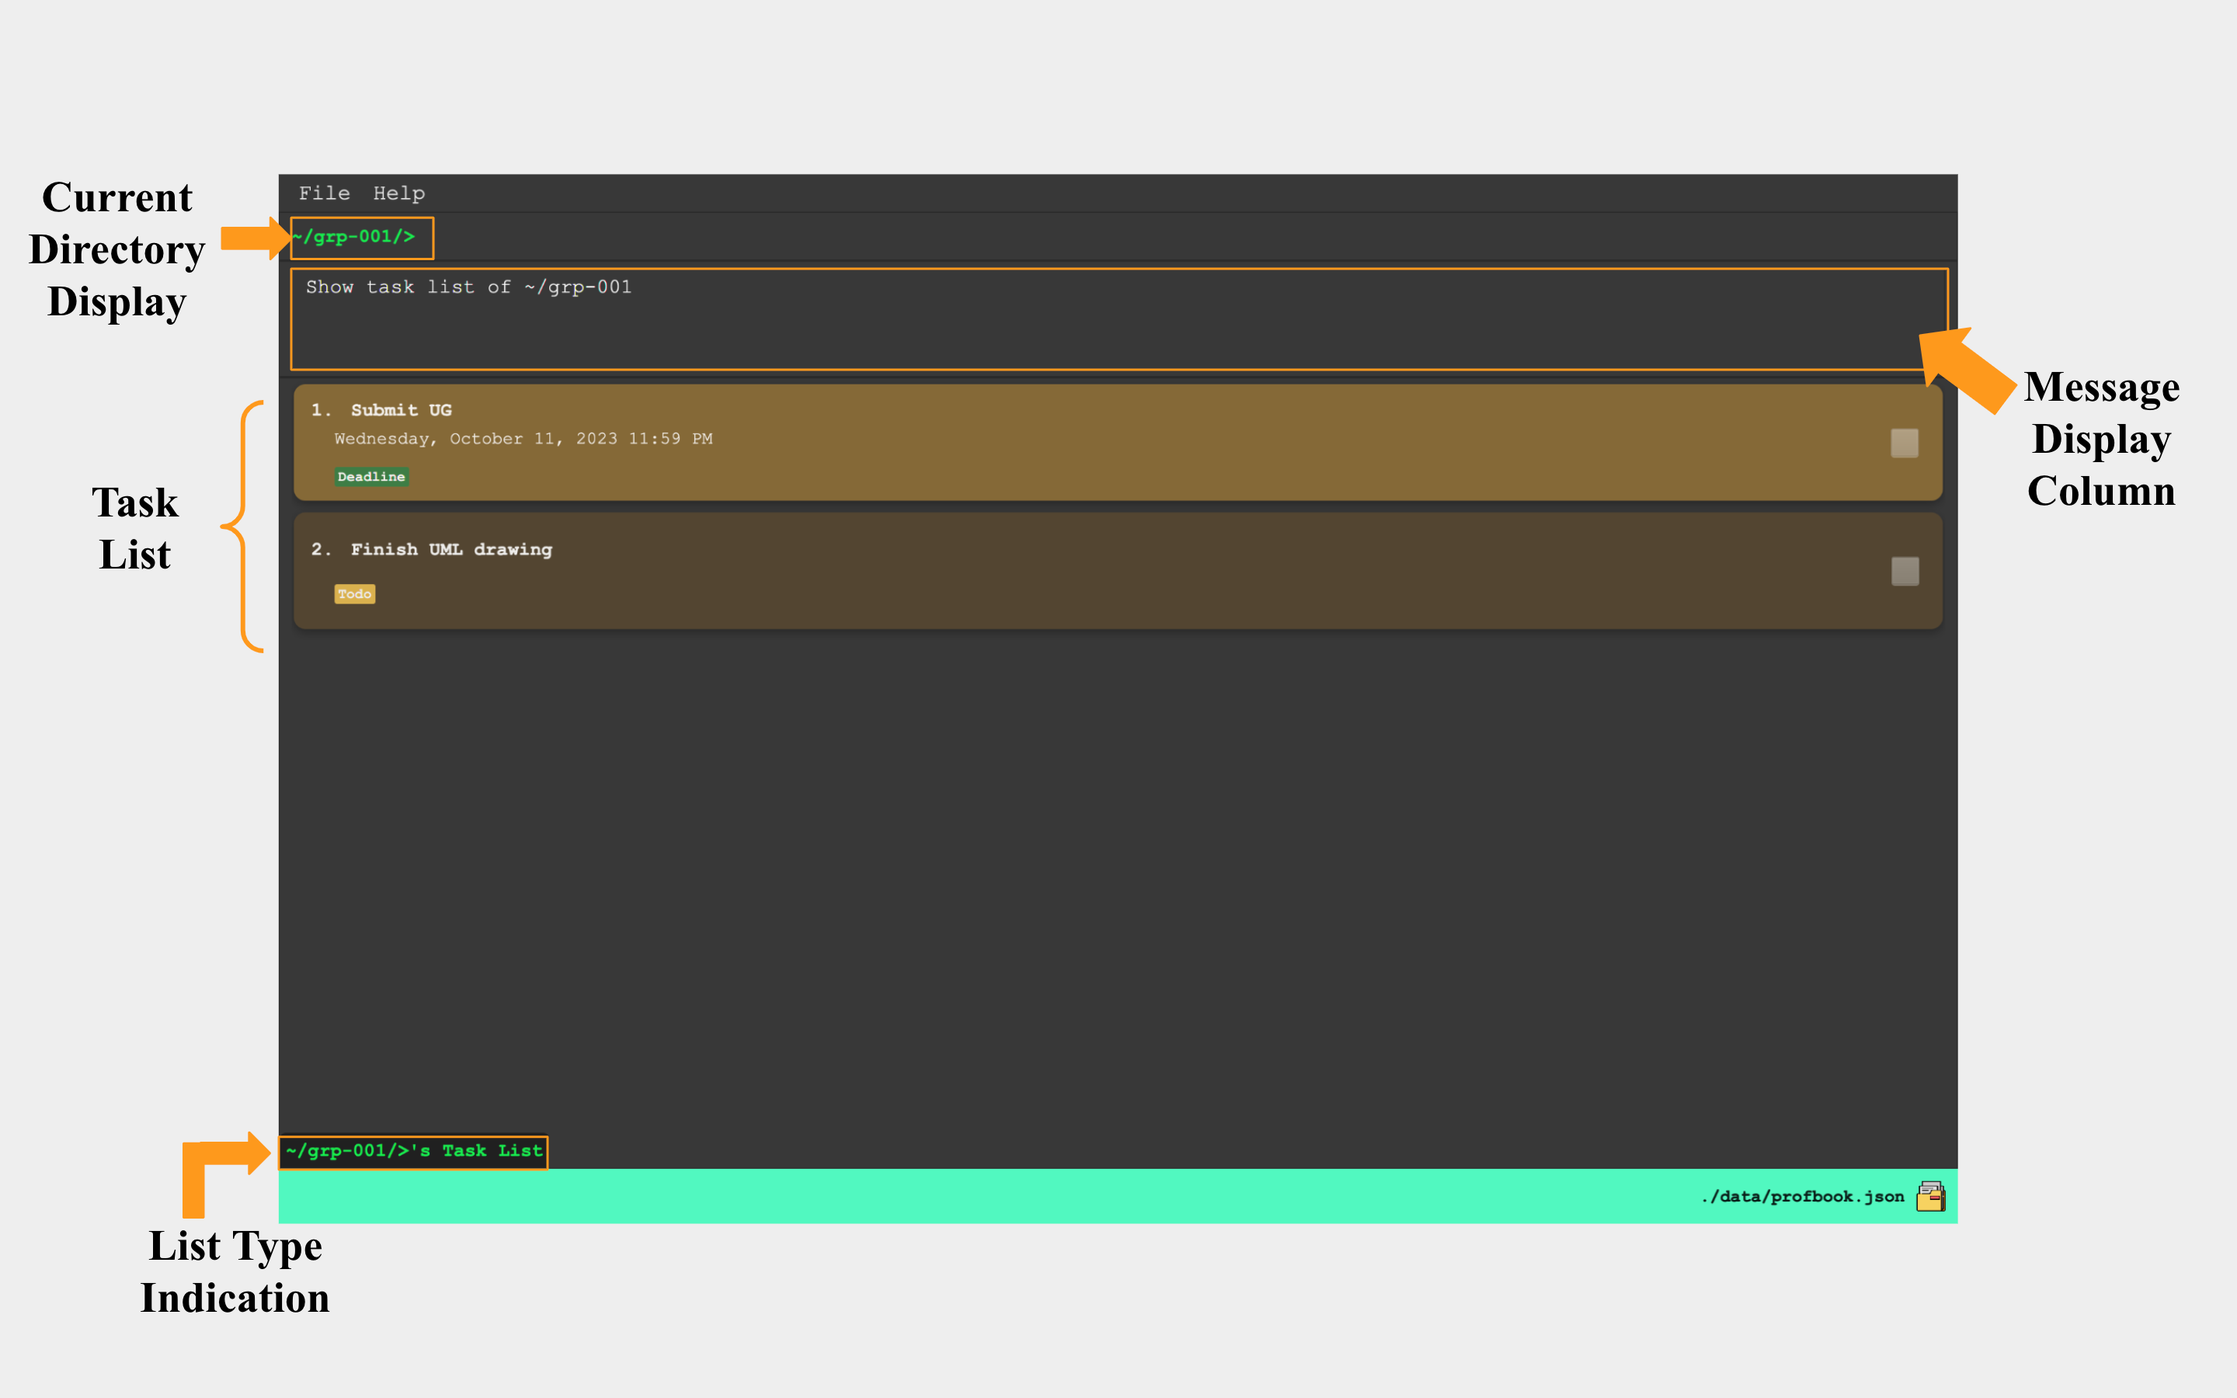
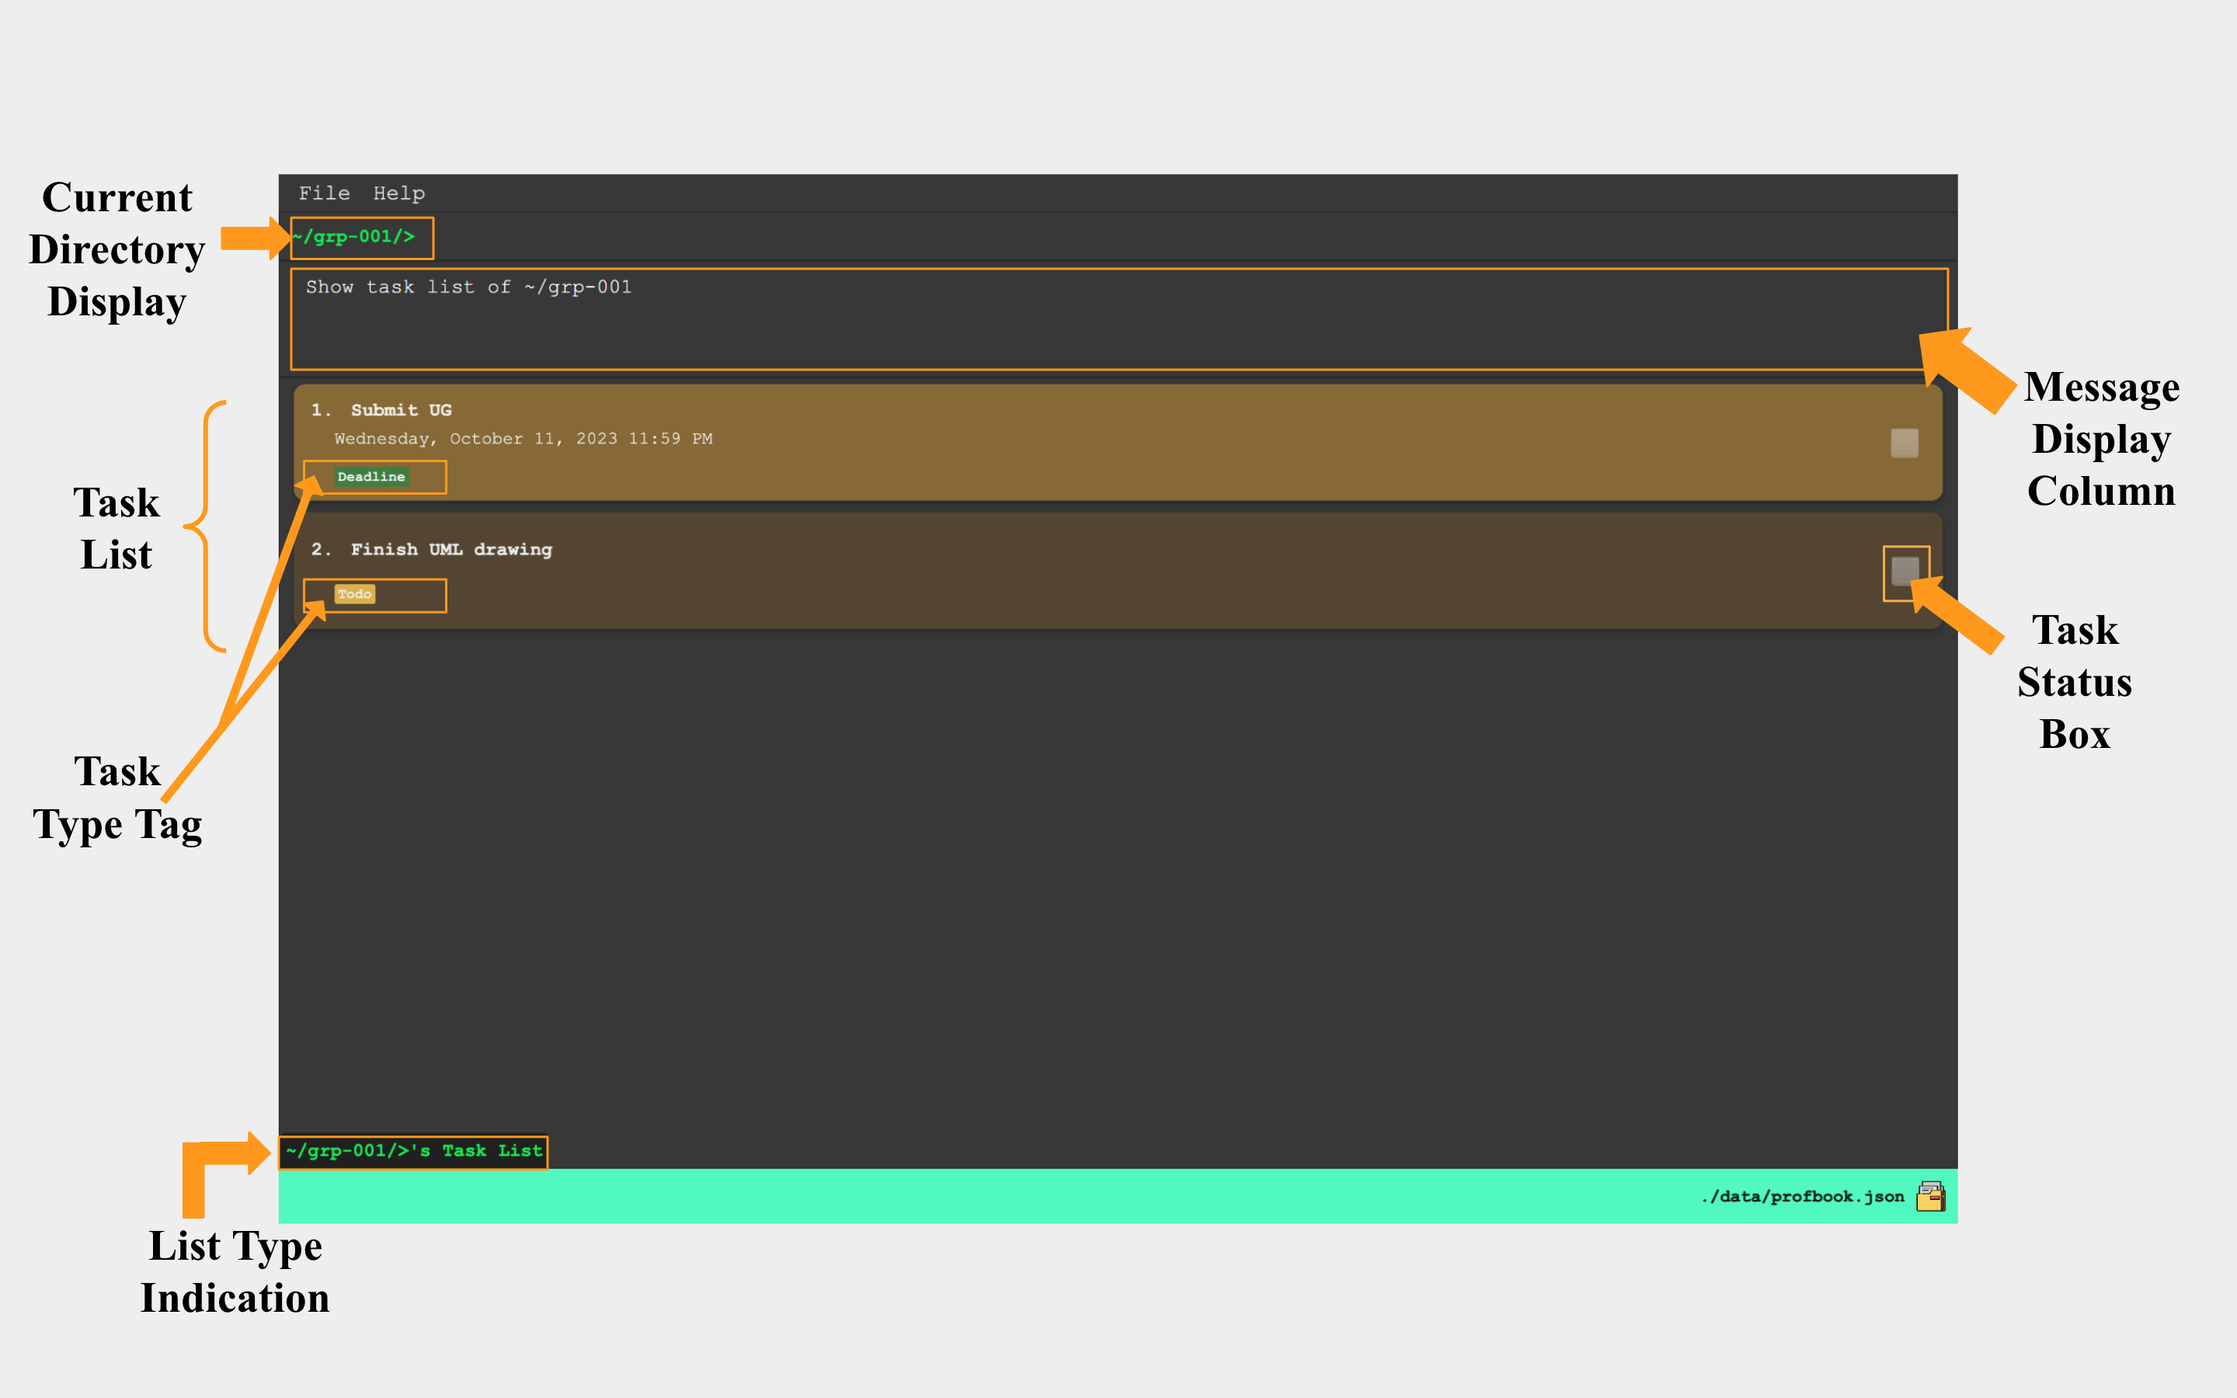
Update UG

diff --git a/docs/UserGuide.md b/docs/UserGuide.md
@@ -147,7 +147,13 @@ within each group.
 * Extraneous parameters for commands that do not take in parameters (such as `help`, `exit` and `clear`) will be  
   ignored. 
   * e.g. If the command specifies `help 123`, it will be interpreted as `help`.
-- Duplicate can only be detected if all field is exactly the same.
+- Regarding detection of duplicates,
+  - **For `Student` and `Group`**, duplicates can only be detected if they share the same StudentId or GroupId respectively
+  across ProfBook. 
+  - **For Todo tasks**, duplicates can only be detected if the todo tasks share the same
+      description (`DESCRIPTION`).
+  - **For Deadline tasks**, duplicates can only be detected if the deadline tasks share the same 
+  description (`DESCRIPTION`) and due date (`DATE_AND_TIME`).
 * If you would like to pass in a field that starts with `\`, `-` or `--`, you would need to use `\` before the start of
 that field. 
   * Else, fields that start with `-` or `--` will be treated as [flags](#flags) and fields that start with `\`
@@ -168,8 +174,10 @@ Flags usually come before essential details required by the command and are comp
 - `--desc` / `d` followed by description of task specified by command.
 - `--datetime` / `-dt` followed by due date of a deadline task in the `yyyy-MM-dd HH:mm` format.  
 - `--all` / `-al` followed by either: 
-  - `allStu` which adds **individual** tasks to all students within the group directory.
-    - Can only be used at a group directory.  
+  - `allStu` which adds **individual** tasks to all students within specified directory.
+    - Can only be used at a group or root directory.  
+      - If used at **group directory**, task will be added to **all students in that group**.
+      - If used at **root directory**, task will be added to **all students in ProfBook**.
   - `allGrp` which adds **group** tasks to all groups within the root directory.
     - Can only be used at root directory.
 - `--help` / `-h`
@@ -179,7 +187,7 @@ Flags usually come before essential details required by the command and are comp
 ### Acceptable values for each parameter:
 
 `SPECIFIED_PATH`:
-- Must be a valid path.
+- Must be a **valid** path. 
 
 `NAME`:
 - Must be a non-empty string should only contain alphanumeric characters and spaces.
@@ -203,7 +211,7 @@ Flags usually come before essential details required by the command and are comp
 - Must be at least 3 digits long. 
 
 `ADDRESS`:
-- Must be a non-empty string.
+- Must be a non-empty string, which means you cannot input a blank field.
 
 `STUDENT_ID`:
 - Must follow the format of a valid StudentId.
@@ -211,7 +219,7 @@ Flags usually come before essential details required by the command and are comp
 <box type="info">
 
 **Required format for `StudentId`:**
-- Must be in the format `XXXXA` where `XXXX` is replaceable with any 4-digit number and `A` is replaceable with any
+- Must be in the format `XXXXa` where `XXXX` is replaceable with any 4-digit number and `a` is replaceable with any
   capitalised alphabet.
   - **Note:** StudentId here corresponds to the last 5 place of an NUS student's matriculation number and is not
     a StudentId created by you. This format helps you to identify students easily while maintaining
@@ -230,6 +238,18 @@ Flags usually come before essential details required by the command and are comp
   * eg. `grp-001`
 
     </box>
+  
+`DESCRIPTION`:
+- Must be a non-empty string, which means you cannot input a blank field. 
+
+`DATE_AND_TIME`:
+- Must be in the format **`yyyy-MM-dd HH:mm`** where each alphebet will be replaced by a positive whole number. 
+  - `yyyy`: year.
+  - `MM`: month.
+  - `dd`: day.
+  - `HH`: hour (24-hour format).
+  - `mm`: minutes.
+- e.g. 2023-10-01 23:59
 
 `TASK_INDEX`:
 - Must be a **positive whole number**, which means it cannot contain decimals or fractions.
@@ -328,6 +348,8 @@ To view the task list of the current group directory, simply use `cat`.
 |**Current Directory Display**  |   Displays your current directory. <br> In this case, you are in the group directory, `~/grp-001/`.|
 | **Message Display Column** |   Displays the output of the command result. <br>Note that it shows that you are viewing th task list of group directory, `~/grp-001/`.|
 | **Task List** |  Shows the tasks allocated to group at current group directory.   |
+| **Task Type Tag** |  Shows the task type of the specific task, distinguishing between **Todo** tasks (highlighted in **yellow**) and **Deadline** tasks (highlighted in **green**).|
+| **Task Status Box** |  Indicates the completion status of the specific task, using a **tick** for **marked** / **completed** task and the **absence of a tick** for **unmarked** / **uncompleted** tasks.   |
 | **List Type Indication** | Indicates the type of list you are viewing, either a Children List or Task List. <br> In this instance, it shows the Task List of the group directory. |
 
 <box type = "info">
@@ -344,7 +366,7 @@ To view the task list of the current group directory, simply use `cat`.
 
 ## General Commands
 
-### Change Directory: `cd`
+### <span style="color: #FF8C00;">Change Directory: `cd` </span>
 
 Changes the current directory in the ProfBook.
 
@@ -376,7 +398,7 @@ Changes the current directory in the ProfBook.
 use the command:
   -  `cd ../grp-002` ->  type `..` to step up one level before proceeding to the `grp-002` directory.
 
-### Display Directories : `ls`
+### <span style="color: #FF8C00;">Display Directories : `ls`</span>
 
 Shows the list of children in specified directory. 
 
@@ -423,8 +445,8 @@ Displays message indicating either:
 - When you are at the root directory `~/` and would like to see the students under `grp-001`,
   - `ls grp-001` will return all the students in `grp-001`.
 </box>
-  
-### Display all tasks: `cat`
+
+### <span style="color: #FF8C00;">Display all tasks: `cat` </span>
 
 Displays all tasks depending on the directory you are at.
 
@@ -468,18 +490,19 @@ The `ls` command will show the list of tasks in the current group directory.
 
 <box type="tip">
 
-If you are at the directory `~/grp-001` and would like take a quick look of the tasks allocated to student `0010Y`,
+If you are at the directory `~/grp-001` and would like take a quick look of the tasks allocated to student `0010Y` 
+that is under `grp-001`,
 - `cat 0010Y` will return all the tasks allocated to student of studentId, `0010Y`.
 
 </box>
 
-### View help : `help`
+### <span style="color: #FF8C00;">View help : `help` </span>
 
 Shows a message of the commands you could use.
 
 **Format:** `help`
 
-### Clearing all entries : `clear`
+### <span style="color: #FF8C00;">Clearing all entries : `clear` </span>
 
 Clears all entries from ProfBook.
 
@@ -497,7 +520,7 @@ This command is particularly valuable at the beginning of a new semester when yo
 students and groups, making way for the addition of new students. 
 </box>
 
-### Exiting the program : `exit`
+### <span style="color: #FF8C00;">Exiting the program : `exit` </span>
 
 Exits the program.
 
@@ -518,9 +541,15 @@ positioned in the top-left corner of the window.
 
 ## Student or Group Commands :family:
 
-### Add a student: `touch`
+### <span style="color: #FF8C00;">Add a student: `touch` </span>
 
-Adds a student into the specified directory.
+Adds a student into the specified group directory.
+
+<box type="warning">
+
+Kindly note that the addition of students are exclusively to group directories.
+This means direct addition of students to the root directory is not allowed.
+</box>
 
 **Format:** `touch SPECIFIED_PATH --name NAME [--email EMAIL] [--phone PHONE_NUMBER] [--address ADDRESS]`
 
@@ -533,7 +562,7 @@ Adds a student into the specified directory.
 
 #### Output if command succeeds:
 
-- Displays message indicating successful creation and information of the new student.
+- Displays message indicating successful creation of student, along with details of the new student.
 
 </box>
 
@@ -566,7 +595,8 @@ When you are at the directory `~/grp-001` and would like to add a new student, B
 - If the command is executed outside a specific group, the specified path must extend to encompass both the 
 group and the student to ensure accurate execution.
 
-### Edit a Student: `edit`
+### <span style="color: #FF8C00;">Edit a Student: `edit` </span>
+
 <box type="warning">
 
 The `edit` command uses the same command word, `edit`, for both editing students and groups. 
@@ -614,7 +644,7 @@ When you are at the root directory `~/` and would like to edit the same student'
 directory before executing the `edit` command!
 </box>
 
-### Edit a Group: `edit`
+### <span style="color: #FF8C00;">Edit a Group: `edit` </span>
 <box type="warning">
 
 The `edit` command uses the same command word, `edit`, for both editing students and groups.
@@ -622,7 +652,8 @@ For greater clarity, we have separated the sections for editing a student and gr
 If you wish to edit a student instead, please refer to the dedicated section [here](#edit-a-student-edit).
 </box>
 
-Edits a group's name in the specified path. <br>
+Edits a group's details including name or GroupId in the specified path. <br>
+One or more fields can be edited in a single command.
 
 **Format:** `edit [SPECIFIED_PATH] [--name NAME] [--id GROUP_ID]`
 
@@ -669,7 +700,7 @@ When you are at the root directory `~/` and would like to edit the same group's 
   directory before executing the `edit` command!
 </box>
 
-### Deletes a Student or Group: `rm`
+### <span style="color: #FF8C00;">Delete a Student or Group: `rm` </span>
 
 Removes a student or group from the specified path.
 
@@ -711,7 +742,7 @@ in `~/grp-001`,
 
 </box>
 
-### Move Student: `mv`
+### <span style="color: #FF8C00;">Move Student: `mv` </span>
 
 Moves student from one group to another group.
 
@@ -742,7 +773,7 @@ Moves student from one group to another group.
 - Displays message indicating either:
   - [Invalid command format.](#mistake-1-invalid-command-format)
   - [No such student to move.](#mistake-4-no-such-student-to-move)
-  - [Invalid destination path.](#mistake-2--invalid-path)
+  - [Invalid destination path.](#mistake-2-invalid-path)
 
 </box>
 
@@ -759,9 +790,15 @@ root directory,
 
 </box>
 
-### Create Group : `mkdir`
+### <span style="color: #FF8C00;">Create Group : `mkdir`</span>
 
-Creates a group that can contain students.
+Creates a group that can contain students in the root directory.
+
+<box type="warning">
+
+Kindly note that the addition of groups are exclusively to the root directory.
+This means that addition of groups under another group directory is not allowed.
+</box>
 
 **Format:** `mkdir SPECIFIED_PATH_TO_GROUP --name NAME`
 
@@ -773,7 +810,7 @@ Creates a group that can contain students.
 <box type="success" seamless>
 
 #### Output if command succeeds
-- Displays message indicating successful creation and information of the new group.
+- Displays message indicating successful creation of group, along with details of the new group.
 
 </box>
 
@@ -810,7 +847,13 @@ student contributions.
 assignments where each student is required to complete and submit their assignment independently. 
 </box>
 
-### Create Todo Task : `todo`
+<box type="warning">
+
+Tasks are **only allocated to groups or students**. 
+This means that tasks **cannot be allocated to the root directory**.
+</box>
+
+### <span style="color: #FF8C00;">Create Todo Task : `todo` </span>
 
 Creates todo tasks for specific student(s) or group(s).
 
@@ -861,7 +904,7 @@ following command,
 </box>
 
 
-### Create Deadline task : `deadline`
+### <span style="color: #FF8C00;">Create Deadline task : `deadline` </span>
 
 Creates task with a deadline for specific student(s) or group(s).
 
@@ -915,7 +958,7 @@ you could use the following command at the root directory, `~/`,
 
 </box>
 
-### Mark tasks as completed: `mark`
+### <span style="color: #FF8C00;">Mark task as completed: `mark` </span>
 
 Marks the specified task as done for the specified student or group. 
 
@@ -948,11 +991,12 @@ When using this command, you will first need to [cat](#display-all-tasks-cat) at
 
 #### Example(s):
 
-- When you are at `~/grp-001` and would like to mark the first task allocated to student with StudentId, `0123Y`,
-  - `cat 0123Y`
-  - `mark 1`
+- When you find yourself in the `~/grp-001` directory and wish to mark the completion of the first task 
+allocated to student with StudentId, `0123Y`, you could follow these commands in sequential order.
+  1. `cat 0123Y`
+  1. `mark 1`
 
-### Unmark completed task: `unmark`
+### <span style="color: #FF8C00;">Unmark task: `unmark` </span>
 
 Unmarks the specified task for the student or group. 
 
@@ -982,12 +1026,12 @@ When using this command, you will first need to [cat](#display-all-tasks-cat) at
 </box>
 
 #### Example(s):
+- When you are at the `~/grp-001` directory and would like to unmark the first task
+  allocated to this group, you could follow these commands in sequential order.
+  1. `cat`
+  1. `unmark 1`
 
-- When you are at `~/grp-001` and would like to unmark the first task allocated to this group,
-  - `cat`
-  - `unmark 1`
-
-### Deletes task: `rmt`
+### <span style="color: #FF8C00;">Delete task: `rmt` </span>
 
 Removes a task according to specified index number.
 
@@ -1018,12 +1062,15 @@ is at before executing `rmt`.
 </box>
 
 #### Example(s):
+- When you are at the `~/grp-001` directory and no longer want to keep track of the first task 
+allocated to student with StudentId, `0123Y`, you could always remove this task by following these 
+commands in sequential order.
+  1. `cat 0123Y`
+  2. `rmt 1`
 
-- You are at `~/grp-001` would like to delete the first task allocated to student with StudentId, `0123Y`,
-  - `cat 0123Y`
-  - `rmt 1`
+---
 
-### Save the data
+## Save the data
 
 ProfBook data are saved in the hard disk automatically after any command that changes the data. There is no need to save
 manually.
@@ -1052,15 +1099,16 @@ Ensure that the command you enter adheres to the format provided in the user gui
 
 ##### Mistake 2: Invalid path
 **Solution:**
-Please check that the path you have entered is the path required by the command. Additionally, do ensure that it is
-the intended path you wish you utilise, and it exists within ProfBook.
+Please check that the path you have entered is the path required by the command which can be seen in th User
+Guide.
+Additionally, do ensure that it is the intended path you wish to utilise, and it exists within ProfBook.
 
-##### Mistake 3: No such student or group to delete.
+##### Mistake 3: No such student or group to delete
 **Solution:**
 Verify that the StudentId or GroupId belonging to the student or group you wish to delete is correct
 and that the specified path belonging to the student or group which you wish to delete exist within ProfBook.
 
-##### Mistake 4: No such student to move.
+##### Mistake 4: No such student to move
 **Solution:**
 Verify that the StudentId belonging to the student you wish to move is correct
 and that the student exists in the specified path from which you wish to move them from.
@@ -1088,7 +1136,7 @@ message. <br> This approach aids you to concentrate on addressing the invalid op
 ones. The next invalid option will be shown after rerunning the command if the current invalid option has been solved.
 </box>
 
-##### Mistake 8: At least one field to edit must be provided.
+##### Mistake 8: At least one field to edit must be providedmis
 **Solution:**
 If **editing a student**, ensure that you have indicated at least one field 
 (`NAME`, `EMAIL`, `PHONE_NUMBER`, `ADDRESS` or `STUDENT_ID`) to edit and that the flag used is accurate. <br>
